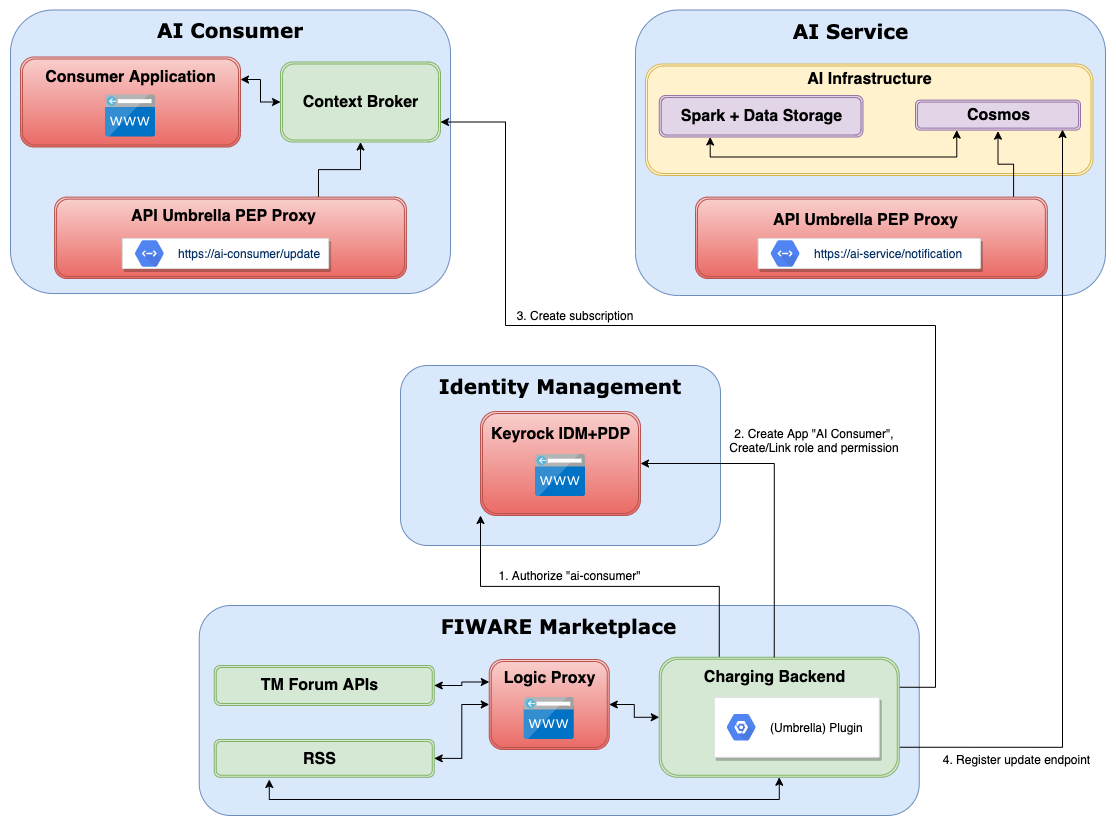
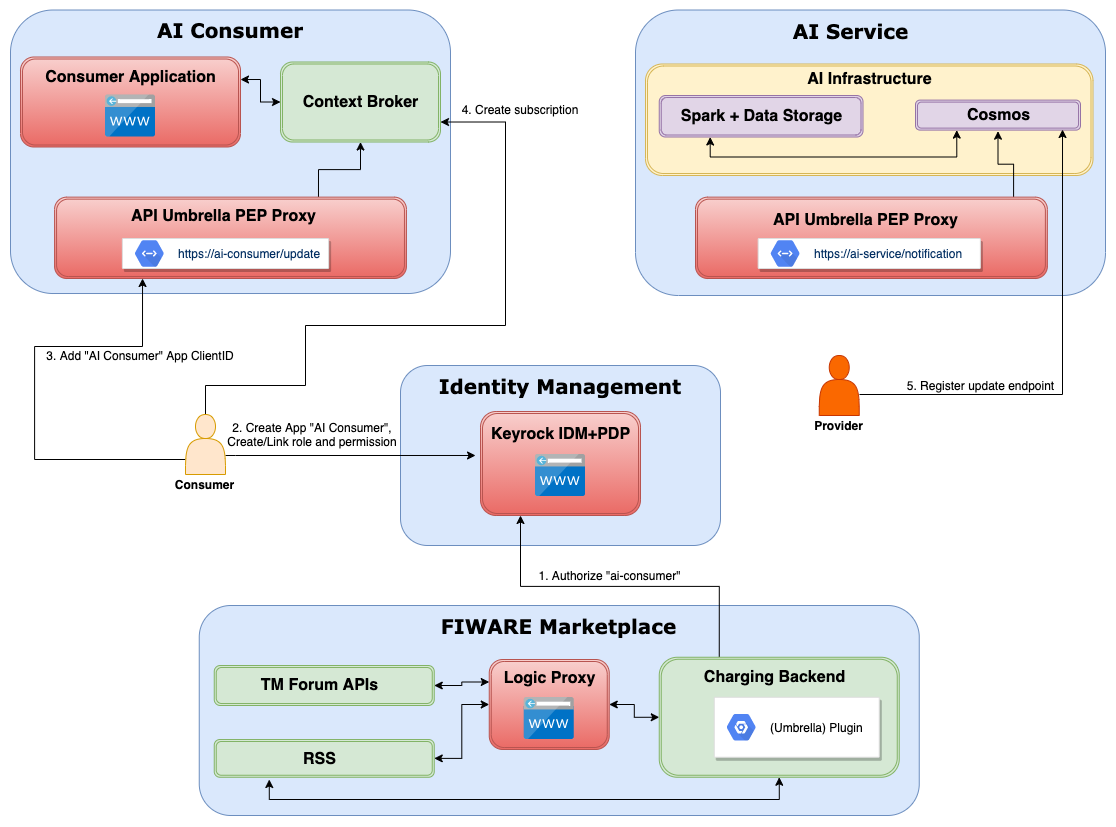
Processes for Spark blueprint with open issues

diff --git a/doc/blueprints-guide.rst b/doc/blueprints-guide.rst
@@ -29,7 +29,7 @@ Base Spark on Digital Twins
 *****************************
 
 * Description of the "Base Spark on Digital Twins" blueprint
-* On Example of predicting weights of animals
+* Example of predicting weights of animals
 
 Overview of target architecture between AI consumer and AI Service:
 
@@ -40,85 +40,159 @@ Overview of target architecture between AI consumer and AI Service:
 The following describes a simplified target architecture consisting of AI Service, AI Consumer,
 FIWARE Marketplace and a central Keyrock IDM instance.
 
+The AI Service consists of the AI infrastructure (Spark environment and Cosmos connector) and an instance
+of API Umbrella as PEP proxy. Within API Umbrella, it is assumed that an API Backend is already configured
+with endpoint https://ai-service/notification 
+pointing to the Cosmos Receiver notification endpoint, and the central Keyrock instance is configured as IDM.
+
+The AI Consumer consists of its application (e.g. some dashboard), some IoT devices (will be simulated in this PoC),
+a Context Broker and an instance of API Umbrella as PEP proxy. Within API Umbrella, it is assumed that an
+API Backend is already configured with endpoint https://ai-consumer/update
+pointing to the Context Broker update endpoint, and the central Keyrock instance
+is configured as IDM.
+
+A central Keyrock instance is setup, which handles the identity management for all environments.
+
+The Marketplace consists of its usual components. For this blueprint, a specific plugin is installed within the
+charging backend. The plugin has admin access to Keyrock.
+
+.. figure:: ./images/blueprints/proc0_overview.png
+   :align: center
+
+   Overview of simplified architecture
+	   
+
 Three different processes must be handled by the plugin for this blueprint.
 
 
 **Product offer creation:**
 
-User "ai-provider" (registered in Keyrock) creates Product for its "AI Service"
+The AI Service Provider wants to offer its service on the Marketplace. In Keyrock, the provider has an account
+"ai-provider" with access to the Marketplace as "Seller". The user "ai-provider" now creates a product for its "AI Service".
+When the product is created, the following steps need to be executed:
 
-1. In Keyrock (with user ai-provider): 
+1. In Keyrock for user "ai-provider" (can be handled **manually by provider** or **by plugin**): 
 
    * Create App "AI Service" with URL https://ai-service and Password Grant OAuth2 Flow
 
-2. In Keyrock App "AI Service" (with user "ai-provider"): 
+2. In Keyrock App "AI Service" for user "ai-provider" (can be handled **manually by provider** or **by plugin**): 
 
    * Create role "ai-service-consumer-notification" 
    * Create permission "AI Service Notification Access" for accessing AI Service notification endpoint (e.g., Action=POST, Resource=notification)
    * Link role and permission
 
-.. image:: ./images/blueprints/proc1_create-product.png
+3. In AI Service API Umbrella (handled **manually by provider**):
+
+   * Add Keyrock "AI Service" App OAuth2 ClientID to API Backend configuration
+
+.. figure:: ./images/blueprints/proc1_create-product.png
    :align: center
-	   
+
+   Product offer creation
+
 
 **Acquiring access:**
 
-User "ai-consumer (registered in Keyrock)" acquires access to "AI Service" via Marketplace "buy" process
+The consumer finds the AI service on the Marketplace and wants to acquire access. In Keyrock, the consumer has an account 
+"ai-consumer" with access to the Marketplace as "Customer". The user "ai-consumer" now acquires access to "AI Service"
+via the Marketplace "buy" process. When access is acquired, the following steps need to be executed:
 
-1. In Keyrock (with user "ai-provider" ???):
+1. In Keyrock (can be handled **manually by provider** or **by plugin**):
 
    * Authorize user "ai-consumer" for App "AI Service" with role "ai-service-consumer-notification"
 
-2. In Keyrock (with user "ai-consumer" ???):
+2. In Keyrock for user "ai-consumer" (handled **manually by consumer**):
 
    * Create App "AI Consumer" with URL https://ai-consumer and Password Grant OAuth2 Flow
    * In App "AI Consumer": Create role "ai-consumer-update"
    * In App "AI Consumer": Create permission "AI Consumer Update Access" for accessing AI Consumer Context Broker Update endpoint (e.g., Action=PATCH, Resource=update)
    * In App "AI Consumer": Link role and permission
 
-3. In Consumer Context Broker:
+3. In AI Consumer API Umbrella (handled **manually by consumer**):
 
-   * Create subscription to endpoint https://ai-service/notification for changes on attribute "weight" (how to generalize this?!)
+   * Add Keyrock "AI Consumer" App OAuth2 ClientID to API Backend configuration
+     
+4. In Consumer Context Broker (handled **manually by consumer**):
 
-4. In "AI Service":
+   * Create subscription to endpoint https://ai-service/notification for changes on attribute "weight"
 
-   * Register "AI Consumer" update endpoint https://ai-consumer/update in AI Service Cosmos Connector (OrionSink?!)
+5. In "AI Service" (handled **manually by provider**):
 
-.. image:: ./images/blueprints/proc2_acquire-access.png
+   * Register "AI Consumer" update endpoint https://ai-consumer/update in AI Service Cosmos Connector (OrionSink?!).
+     This might require, that the provider deploys a specific container with this endpoint pre-configured.
+
+.. figure:: ./images/blueprints/proc2_acquire-access.png
    :align: center
 
+   Acquiring access
+	   
 
 **Consuming AI Service:**
 
+After the consumer has acquired access to the AI Service, it wants to consume the service now and receive
+predictions.
+
+The IoT Agents sending weight updates to the Context Broker will be simulated by the dashboard application.
+
 1. IoT Agent updates data (here: weight) in Context Broker (PoC: will be simulated)
 
-   * Skip IDM here, as we are within Consumer infrastructure
+   * Access from Iot Agents/dashboard to the Context Broker is not protected here for this PoC, as we assume we are within
+     the Consumer infrastructure. Therefore there is no proxy in between.
 
 2. Context Broker notifies AI Service endpoint about value change (here: weight)
 
-   1. Notification send to AI Service PEP Proxy with Consumer token obtained from Keyrock (Umbrella notification endpoint POST https://ai-service/notification)
-   2. AI Service Umbrella asks Keyrock about permission to access notification endpoint
+   1. Notification send to AI Service API Umbrella PEP Proxy endpoint https://ai-service/notification (POST) with Consumer
+      token obtained from Keyrock
+   2. AI Service API Umbrella asks Keyrock about permission to access notification endpoint
    3. If ok, AI Service Umbrella PEP Proxy forwards notification to Cosmos Receiver
    4. Prediction process is triggered within Spark environment
 
 3. Prediction results (weight in 10 days, weight end of season) are updated within Context Broker
 
-   1. Result/Updated data send from Cosmos OrionSink to Consumer PEP Proxy "Update" endpoint https://ai-consumer/update with AI Service token obtained from Keyrock
-      (how to register endppint)
-   2. Consumer Umbrella asks Keyrock about Permission to access "Update" endpoint
-   3. If ok, Consumer Umbrella PEP Proxy forwards "Update" request to Context Broker
+   1. Result/Updated data send from Cosmos OrionSink to Consumer API Umbrella PEP Proxy "Update" endpoint
+      https://ai-consumer/update with AI Service provider token obtained from Keyrock
+   2. AI Consumer API Umbrella asks Keyrock about Permission to access "Update" endpoint
+   3. If ok, Consumer API Umbrella PEP Proxy forwards "Update" request to Context Broker
 
-.. image:: ./images/blueprints/proc3_consume-service.png
+The updated prediction results can be viewed on the AI Consumer dashboard application.
+      
+.. figure:: ./images/blueprints/proc3_consume-service.png
    :align: center
 
+   Consuming AI Service
+	  
 
 
-**Open Questions:**
+**Open Questions/Issues:**
 
-* How to generalize "attribute change" for Context Broker subscription?
-* How to register Consumer "Update" endpoint within Cosmos (OrionSink)? No API. On "Acquiring access" step, trigger build on Spark environment with target host replaced?
-* Check how to grant the blueprint plugin access to Keyrock
+* BAE plugins only allow forms for product/offer creation. There is no possibility for the consumer to enter
+  data about its own infrastructure/accounts during the acquisition process.
 
+  This results in several steps to be performed manually on the provider and the consumer side.
+
+  1. Especially on the consumer side all steps need to be performed manually, because the plugin does not have
+     the necessary information. 
+  2. On the provider side, configuration for the consumer "update" endpoint needs to be done manually, since the
+     plugin does not have the necessary information. Adding the "AI Service" ClientID to the AI Service API Umbrella
+     PEP Proxy could be done automatically, if the provider would enter Admin API Key information during the product
+     creation process.
+
+* On the AI Service side, the Cosmos connector needs to be configured where to send the updated predictions to (CosmosSink?).
+  Cosmos does not provide an API for configuration. Therefore it might be needed that a specific instance needs to be deployed
+  for each consumer that was granted access with the consumer update endpoint (https://ai-consumer/update)
+  being pre-configured (e.g. via ENV)
+
+* The plugin needs to perform changes within Keyrock. For this, a specific admin account needs to be created within
+  Keyrock. Plugins will need to get these credentials either via
+  ENV (Example: https://github.com/Ficodes/bae-ngsild-query/blob/master/keyrock_client.py#L31) or file on the marketplace
+  charging backend environment.
+
+* Open: Define process for product/service suspension
+
+* Open: Define processes for usage accounting
+  
+
+  
   
 
 ---------------------------
